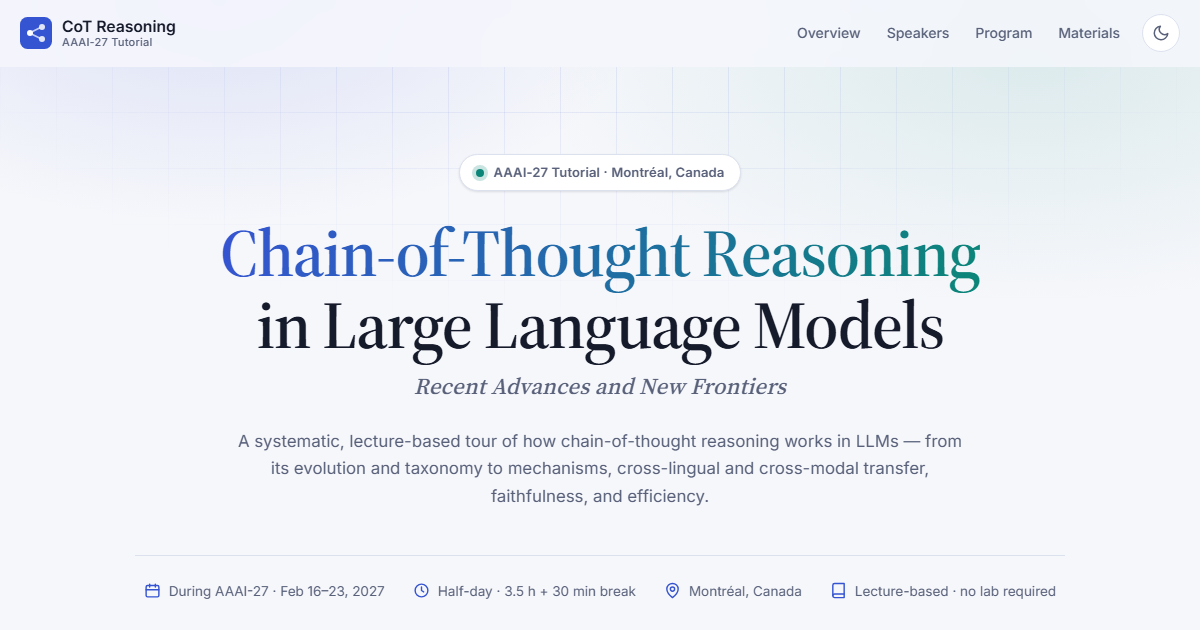
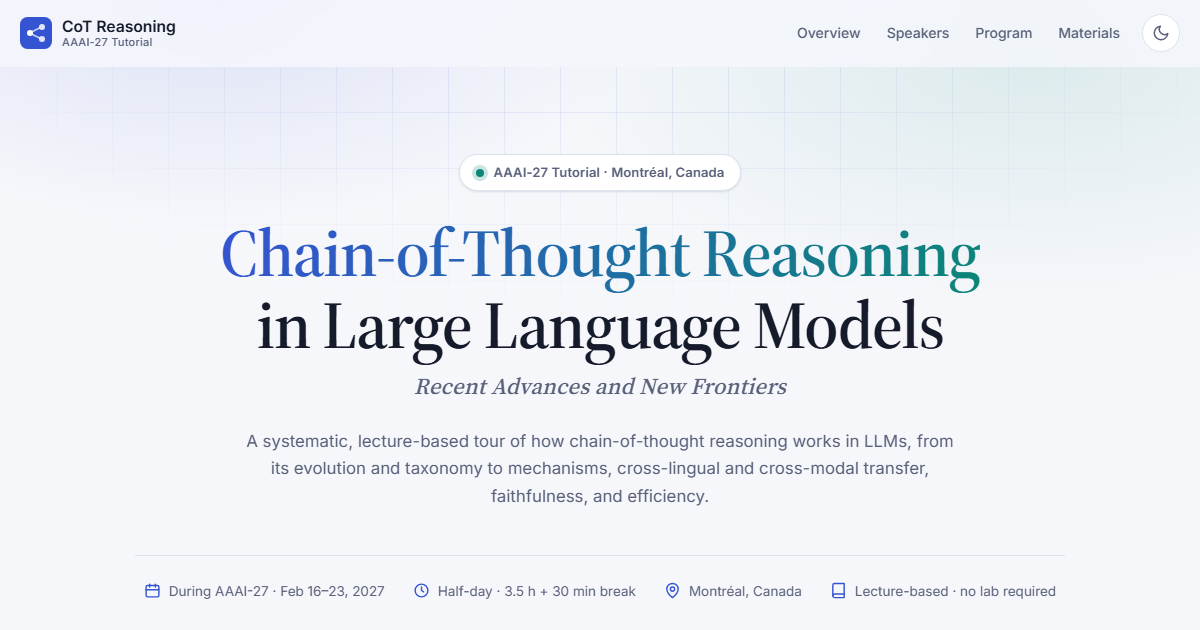
Refine speaker links, program summaries, and readings section

Changed region(s): [[0.185, 0.6937, 0.8017, 0.7238]]

diff --git a/index.html b/index.html
@@ -3,18 +3,18 @@
 <head>
   <meta charset="UTF-8" />
   <meta name="viewport" content="width=device-width, initial-scale=1.0" />
-  <title>Chain-of-Thought Reasoning in Large Language Models — AAAI-27 Tutorial</title>
+  <title>Chain-of-Thought Reasoning in Large Language Models | AAAI-27 Tutorial</title>
   <meta name="description" content="An AAAI-27 tutorial on chain-of-thought reasoning in large language models: recent advances and new frontiers in mechanisms, cross-lingual and cross-modal reasoning, faithfulness, and efficiency." />
 
   <!-- Open Graph / Twitter -->
-  <meta property="og:title" content="Chain-of-Thought Reasoning in Large Language Models — AAAI-27 Tutorial" />
+  <meta property="og:title" content="Chain-of-Thought Reasoning in Large Language Models | AAAI-27 Tutorial" />
   <meta property="og:description" content="Recent advances and new frontiers in CoT reasoning: mechanisms, cross-lingual and cross-modal transfer, faithfulness, and efficiency." />
   <meta property="og:type" content="website" />
   <meta property="og:url" content="https://cot-reasoning-tutorials.github.io/AAAI-2027-Tutorial/" />
   <meta property="og:image" content="https://cot-reasoning-tutorials.github.io/AAAI-2027-Tutorial/assets/preview.png" />
   <meta property="og:image:width" content="1200" />
   <meta property="og:image:height" content="630" />
-  <meta property="og:image:alt" content="Chain-of-Thought Reasoning in Large Language Models — AAAI-27 Tutorial" />
+  <meta property="og:image:alt" content="Chain-of-Thought Reasoning in Large Language Models | AAAI-27 Tutorial" />
   <meta name="twitter:card" content="summary_large_image" />
   <meta name="twitter:image" content="https://cot-reasoning-tutorials.github.io/AAAI-2027-Tutorial/assets/preview.png" />
 
@@ -97,7 +97,7 @@
         <p class="hero-sub">Recent Advances and New Frontiers</p>
 
         <p class="tagline">
-          A systematic, lecture-based tour of how chain-of-thought reasoning works in LLMs &mdash;
+          A systematic, lecture-based tour of how chain-of-thought reasoning works in LLMs,
           from its evolution and taxonomy to mechanisms, cross-lingual and cross-modal transfer,
           faithfulness, and efficiency.
         </p>
@@ -130,7 +130,7 @@
           <span class="eyebrow">Overview</span>
           <h2>A systematic map of chain-of-thought reasoning</h2>
           <p>
-            Six sessions trace CoT from its origins to the research frontier &mdash; mechanisms,
+            Six sessions trace CoT from its origins to the research frontier: mechanisms,
             languages, modalities, faithfulness, and efficiency.
           </p>
         </div>
@@ -170,7 +170,7 @@
               <svg viewBox="0 0 24 24" width="20" height="20" fill="none" stroke="currentColor" stroke-width="2" stroke-linecap="round" stroke-linejoin="round"><path d="M9 18h6M10 22h4"></path><path d="M12 2a7 7 0 0 0-4 12.7c.6.5 1 1.1 1 1.8V17h6v-.5c0-.7.4-1.3 1-1.8A7 7 0 0 0 12 2z"></path></svg>
             </div>
             <h3>How does CoT work?</h3>
-            <p>Explicit, implicit, and latent reasoning &mdash; and what mechanistic evidence reveals about model behavior.</p>
+            <p>Explicit, implicit, and latent reasoning, and what mechanistic evidence reveals about model behavior.</p>
           </article>
 
           <article class="q-card reveal">
@@ -185,7 +185,7 @@
             <div class="q-icon" aria-hidden="true">
               <svg viewBox="0 0 24 24" width="20" height="20" fill="none" stroke="currentColor" stroke-width="2" stroke-linecap="round" stroke-linejoin="round"><path d="M12 3l7 3v6c0 4.5-3 7.5-7 9-4-1.5-7-4.5-7-9V6l7-3z"></path><path d="M9 12l2 2 4-4"></path></svg>
             </div>
-            <h3>Can we trust it &mdash; and afford it?</h3>
+            <h3>Can we trust it and afford it?</h3>
             <p>Faithful, verifiable rationales alongside adaptive computation and reasoning compression.</p>
           </article>
         </div>
@@ -202,37 +202,49 @@
 
         <ul class="speakers-grid">
           <li class="speaker reveal">
-            <img class="avatar" src="assets/people/libo-qin.jpg" alt="Libo Qin" width="96" height="96" loading="lazy" />
+            <a class="avatar-link" href="https://qinlibo-hit.github.io/" target="_blank" rel="noopener" aria-label="Libo Qin homepage">
+              <img class="avatar" src="assets/people/libo-qin.jpg" alt="Libo Qin" width="96" height="96" loading="lazy" />
+            </a>
             <h3><a href="https://qinlibo-hit.github.io/" target="_blank" rel="noopener">Libo Qin</a></h3>
             <p class="affil">Harbin Institute of Technology, Shenzhen</p>
             <p class="bio">Associate Professor. Natural language processing and LLM reasoning; tutorials at IJCAI and NLPCC.</p>
           </li>
           <li class="speaker reveal">
-            <img class="avatar" src="assets/people/hao-fei.jpg" alt="Hao Fei" width="96" height="96" loading="lazy" />
+            <a class="avatar-link" href="https://haofei.vip/" target="_blank" rel="noopener" aria-label="Hao Fei homepage">
+              <img class="avatar" src="assets/people/hao-fei.jpg" alt="Hao Fei" width="96" height="96" loading="lazy" />
+            </a>
             <h3><a href="https://haofei.vip/" target="_blank" rel="noopener">Hao Fei</a></h3>
             <p class="affil">University of Oxford</p>
             <p class="bio">Senior Research Fellow. Multimodal foundation models and symbolic chain-of-thought reasoning.</p>
           </li>
           <li class="speaker reveal">
-            <img class="avatar" src="assets/people/zhuosheng-zhang.jpg" alt="Zhuosheng Zhang" width="96" height="96" loading="lazy" />
+            <a class="avatar-link" href="https://bcmi.sjtu.edu.cn/home/zhangzs/" target="_blank" rel="noopener" aria-label="Zhuosheng Zhang homepage">
+              <img class="avatar" src="assets/people/zhuosheng-zhang.jpg" alt="Zhuosheng Zhang" width="96" height="96" loading="lazy" />
+            </a>
             <h3><a href="https://bcmi.sjtu.edu.cn/home/zhangzs/" target="_blank" rel="noopener">Zhuosheng Zhang</a></h3>
             <p class="affil">Shanghai Jiao Tong University</p>
             <p class="bio">Assistant Professor. Large language models, reasoning, and agents.</p>
           </li>
           <li class="speaker reveal">
-            <img class="avatar" src="assets/people/liangming-pan.jpg" alt="Liangming Pan" width="96" height="96" loading="lazy" />
+            <a class="avatar-link" href="https://liangmingpan.bio/" target="_blank" rel="noopener" aria-label="Liangming Pan homepage">
+              <img class="avatar" src="assets/people/liangming-pan.jpg" alt="Liangming Pan" width="96" height="96" loading="lazy" />
+            </a>
             <h3><a href="https://liangmingpan.bio/" target="_blank" rel="noopener">Liangming Pan</a></h3>
             <p class="affil">Peking University</p>
             <p class="bio">Assistant Professor. LLM reasoning mechanisms and explainable AI.</p>
           </li>
           <li class="speaker reveal">
-            <img class="avatar" src="assets/people/yafu-li.jpg" alt="Yafu Li" width="96" height="96" loading="lazy" />
+            <a class="avatar-link" href="https://yafuly.github.io/" target="_blank" rel="noopener" aria-label="Yafu Li homepage">
+              <img class="avatar" src="assets/people/yafu-li.jpg" alt="Yafu Li" width="96" height="96" loading="lazy" />
+            </a>
             <h3><a href="https://yafuly.github.io/" target="_blank" rel="noopener">Yafu Li</a></h3>
             <p class="affil">Shanghai AI Laboratory &middot; CUHK</p>
             <p class="bio">Researcher. LLM reasoning, trustworthy AI, and machine translation.</p>
           </li>
           <li class="speaker reveal">
-            <img class="avatar" src="assets/people/min-zhang.jpg" alt="Min Zhang" width="96" height="96" loading="lazy" />
+            <a class="avatar-link" href="https://homepage.hit.edu.cn/MinZhang" target="_blank" rel="noopener" aria-label="Min Zhang homepage">
+              <img class="avatar" src="assets/people/min-zhang.jpg" alt="Min Zhang" width="96" height="96" loading="lazy" />
+            </a>
             <h3><a href="https://homepage.hit.edu.cn/MinZhang" target="_blank" rel="noopener">Min Zhang</a></h3>
             <p class="affil">Harbin Institute of Technology, Shenzhen</p>
             <p class="bio">Professor. Multimodal reasoning, large models, and natural language generation.</p>
@@ -258,7 +270,7 @@
                 <span class="pill">Libo Qin &amp; Min Zhang</span>
               </div>
               <h3>Background and recent advances</h3>
-              <p>Definition, taxonomy, and the evolution from short rationales to long-CoT reasoning models.</p>
+              <p>We define CoT reasoning, trace its origins in intermediate rationales, and review its impact on arithmetic, symbolic, commonsense, and code tasks. A recent taxonomy connects prompting strategies to long-CoT reasoning models.</p>
             </div>
           </li>
 
@@ -270,7 +282,7 @@
                 <span class="pill">Liangming Pan</span>
               </div>
               <h3>Mechanisms of CoT reasoning</h3>
-              <p>Explicit, implicit, and latent reasoning, plus the interpretability tools used to study them.</p>
+              <p>We distinguish explicit CoT, implicit reasoning, and latent CoT. The session reviews reasoning-path analysis and interpretability tools such as logit lenses, activation patching, and causal interventions.</p>
             </div>
           </li>
 
@@ -282,7 +294,7 @@
                 <span class="pill">Libo Qin</span>
               </div>
               <h3>Cross-lingual CoT reasoning</h3>
-              <p>Multilingual prompting strategies, cross-lingual transfer, and the challenges of low-resource languages.</p>
+              <p>We separate the language of the question, demonstrations, rationale, and answer. The session compares multilingual prompting, translate-then-reason and reason-then-translate pipelines, and challenges in low-resource languages.</p>
             </div>
           </li>
 
@@ -306,7 +318,7 @@
                 <span class="pill">Hao Fei</span>
               </div>
               <h3>Cross-modal CoT reasoning</h3>
-              <p>Grounding language reasoning in visual and video evidence, from perception to inference.</p>
+              <p>Structured intermediate steps can bridge language with spatial and temporal evidence in images and videos. We cover two-stage rationale-and-answer models, interleaved visual-text traces, and temporally grounded video reasoning.</p>
             </div>
           </li>
 
@@ -318,7 +330,7 @@
                 <span class="pill">Zhuosheng Zhang</span>
               </div>
               <h3>Faithful CoT reasoning</h3>
-              <p>What makes a rationale faithful, and how to verify it with causal and process-level tests.</p>
+              <p>A fluent rationale can be plausible without reflecting what actually drove a prediction. We separate answer correctness, step validity, evidence grounding, causal faithfulness, and calibration, then review verification methods.</p>
             </div>
           </li>
 
@@ -330,7 +342,7 @@
                 <span class="pill">Yafu Li</span>
               </div>
               <h3>Efficient CoT reasoning</h3>
-              <p>Reducing overthinking and inference cost through adaptive computation, compression, and distillation.</p>
+              <p>Large reasoning models can repeat steps, overthink, and misallocate computation. We cover adaptive inference budgets, early stopping, token-level compression, distillation, and length-aware reinforcement learning.</p>
             </div>
           </li>
         </ol>
@@ -342,36 +354,10 @@
       <div class="wrap">
         <div class="section-head reveal">
           <span class="eyebrow">Materials</span>
-          <h2>Slides and readings</h2>
-          <p>The tutorial deck and reading list will be released here before the session.</p>
-        </div>
-
-        <div class="res-grid">
-          <article class="res-card reveal">
-            <div class="res-icon" aria-hidden="true">
-              <svg viewBox="0 0 24 24" width="22" height="22" fill="none" stroke="currentColor" stroke-width="2" stroke-linecap="round" stroke-linejoin="round"><path d="M3 4h18v12H3z"></path><path d="M8 20l4-4 4 4"></path></svg>
-            </div>
-            <h3>Slides</h3>
-            <p>The full tutorial deck, released as a PDF before the session.</p>
-            <span class="res-link disabled">Coming soon</span>
-          </article>
-
-          <article class="res-card reveal">
-            <div class="res-icon" aria-hidden="true">
-              <svg viewBox="0 0 24 24" width="22" height="22" fill="none" stroke="currentColor" stroke-width="2" stroke-linecap="round" stroke-linejoin="round"><path d="M4 19.5A2.5 2.5 0 0 1 6.5 17H20"></path><path d="M6.5 2H20v20H6.5A2.5 2.5 0 0 1 4 19.5v-15A2.5 2.5 0 0 1 6.5 2z"></path></svg>
-            </div>
-            <h3>Reading list</h3>
-            <p>Nine primary sources and surveys that form the tutorial&rsquo;s core reading.</p>
-            <a class="res-link" href="#readings">Browse the readings
-              <svg viewBox="0 0 24 24" width="14" height="14" fill="none" stroke="currentColor" stroke-width="2" stroke-linecap="round" stroke-linejoin="round" aria-hidden="true"><path d="M5 12h14M13 6l6 6-6 6"></path></svg>
-            </a>
-          </article>
-
-          
+          <h2>Readings</h2>
         </div>
 
         <div class="readings-panel reveal" id="readings">
-          <h3>Selected readings</h3>
           <ul class="readings">
             <li>
               <a href="https://arxiv.org/abs/2503.09567" target="_blank" rel="noopener">Towards Reasoning Era: A Survey of Long Chain-of-Thought for Reasoning Large Language Models</a>
@@ -427,7 +413,6 @@
         <span aria-hidden="true">&middot;</span>
         <a href="mailto:qinlibo@hit.edu.cn">Contact</a>
       </div>
-      <p class="fine">&copy; 2027 Tutorial Organizers. Speaker photos courtesy of the speakers.</p>
     </div>
   </footer>
 

diff --git a/style.css b/style.css
@@ -607,7 +607,7 @@ h3 {
 }
 
 .part.is-break .part-card {
-  padding: 20px 30px;
+  padding: 24px 30px;
   background: transparent;
   border-style: dashed;
   box-shadow: none;
@@ -625,7 +625,7 @@ h3 {
 }
 
 .part.is-break .part-meta {
-  margin-bottom: 6px;
+  margin-bottom: 10px;
 }
 
 .part.is-break .part-num {
@@ -659,6 +659,23 @@ h3 {
   transform: translateY(-3px);
   border-color: color-mix(in srgb, var(--accent) 30%, var(--border));
   box-shadow: var(--shadow-md);
+}
+
+.avatar-link {
+  display: block;
+  width: 96px;
+  height: 96px;
+  margin: 0 auto 16px;
+  border-radius: 50%;
+}
+
+.avatar-link:focus-visible {
+  outline: 2px solid var(--accent);
+  outline-offset: 3px;
+}
+
+.avatar-link .avatar {
+  margin: 0;
 }
 
 .avatar {
@@ -721,100 +738,16 @@ img.avatar {
   color: var(--muted);
 }
 
-/* ---------- Materials ---------- */
-.res-grid {
-  display: grid;
-  grid-template-columns: repeat(2, 1fr);
-  gap: 18px;
-  max-width: 760px;
-  margin: 0 auto;
-}
-
-.res-card {
-  display: flex;
-  flex-direction: column;
-  align-items: stretch;
-  padding: 26px 26px 24px;
-  border-radius: var(--radius);
-  border: 1px solid var(--border);
-  background: var(--surface);
-  box-shadow: var(--shadow-sm);
-  text-align: left;
-  transition: transform 0.2s ease, box-shadow 0.2s ease, border-color 0.2s ease;
-}
-
-.res-card:hover {
-  transform: translateY(-3px);
-  border-color: color-mix(in srgb, var(--accent) 30%, var(--border));
-  box-shadow: var(--shadow-md);
-}
-
-.res-icon {
-  width: 44px;
-  height: 44px;
-  display: grid;
-  place-items: center;
-  margin: 0 auto 16px;
-  border-radius: 12px;
-  background: var(--accent-soft);
-  color: var(--accent-strong);
-}
-
-.res-card h3 {
-  margin: 0 0 6px;
-  font-size: 1.02rem;
-  font-weight: 600;
-  text-align: center;
-}
-
-.res-card p {
-  flex: 1;
-  margin: 0 0 18px;
-  font-size: 0.92rem;
-  line-height: 1.6;
-  color: var(--muted);
-}
-
-.res-link {
-  display: inline-flex;
-  align-items: center;
-  justify-content: center;
-  align-self: center;
-  gap: 6px;
-  font-size: 0.9rem;
-  font-weight: 600;
-  text-decoration: none;
-  color: var(--accent-strong);
-  transition: gap 0.15s ease;
-}
-
-.res-link:hover {
-  gap: 10px;
-}
-
-.res-link.disabled {
-  color: var(--muted);
-  font-weight: 500;
-  cursor: default;
-}
-
 /* ---------- Readings ---------- */
 .readings-panel {
   max-width: 1000px;
-  margin: 20px auto 0;
+  margin: 0 auto;
   padding: 28px 30px;
   border-radius: var(--radius);
   border: 1px solid var(--border);
   background: var(--surface);
   box-shadow: var(--shadow-sm);
   text-align: center;
-}
-
-.readings-panel h3 {
-  margin: 0 0 18px;
-  font-family: var(--serif);
-  font-size: 1.22rem;
-  font-weight: 600;
 }
 
 .readings {
@@ -950,10 +883,6 @@ img.avatar {
 
   .speakers-grid {
     grid-template-columns: repeat(2, 1fr);
-  }
-
-  .res-grid {
-    grid-template-columns: 1fr;
   }
 
   .readings {

diff --git a/README.md b/README.md
@@ -35,7 +35,6 @@ things that are only known closer to the conference.
 | Item | Where in `index.html` | What to change |
 | --- | --- | --- |
 | Tutorial day, clock times, room | `.hero-meta` | Add the confirmed AAAI-27 slot |
-| Slides link | `#materials` first card | Replace “Coming soon” with the PDF link |
 | Contact email | footer `mailto:` | Currently `qinlibo@hit.edu.cn` |
 
 ### Speaker photos
